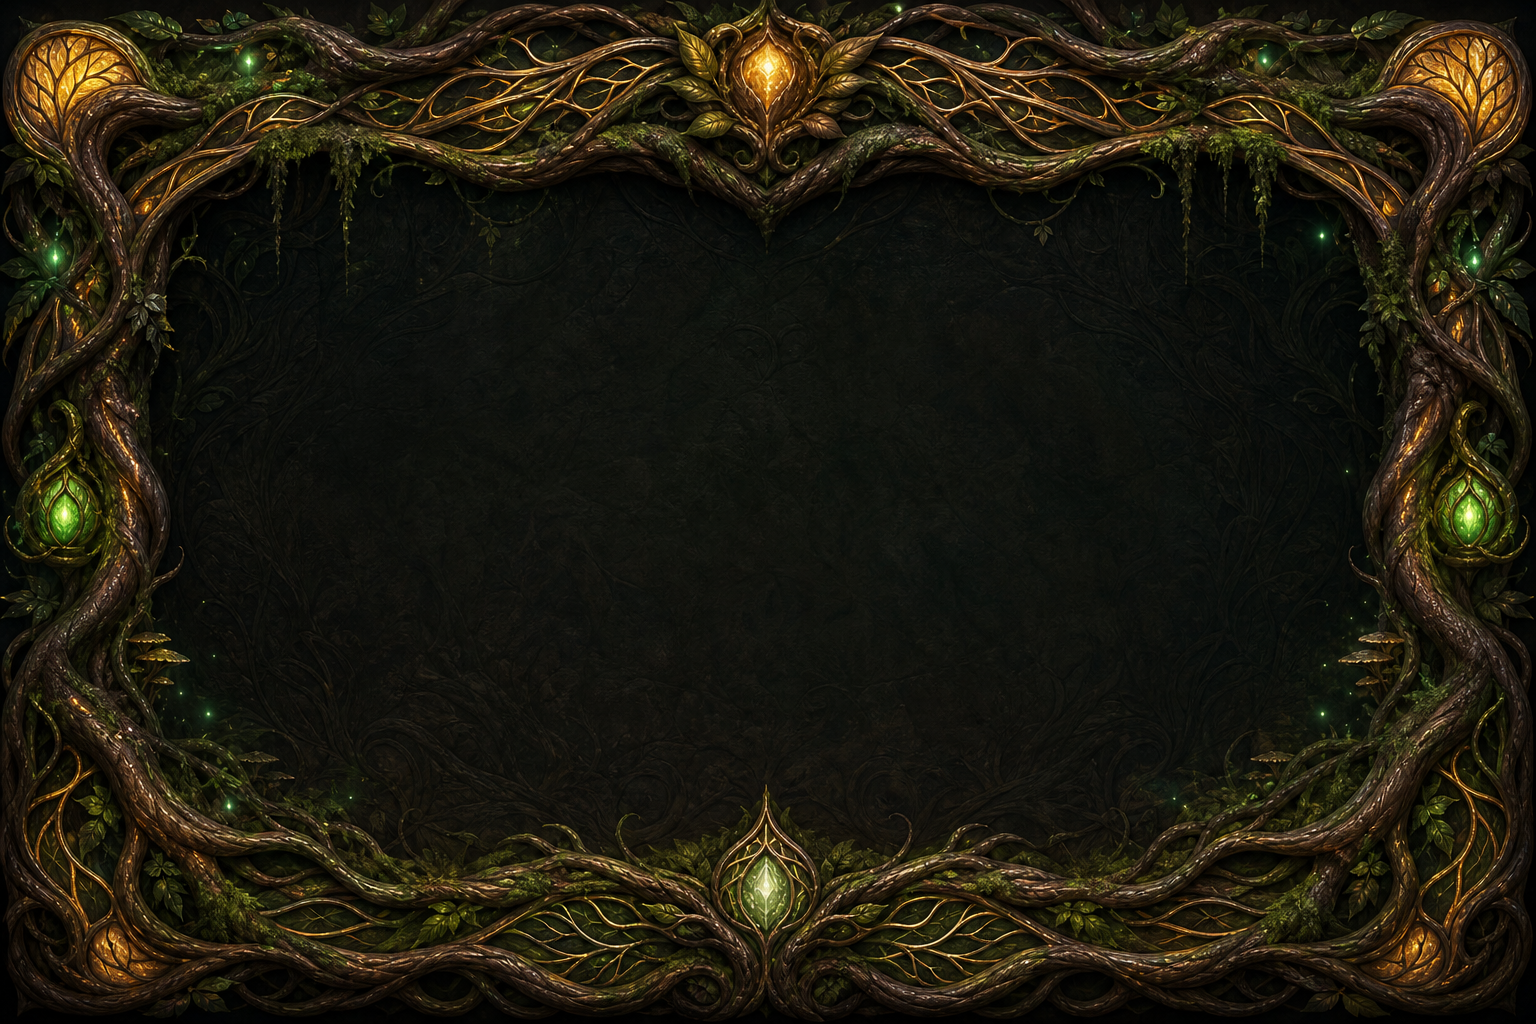
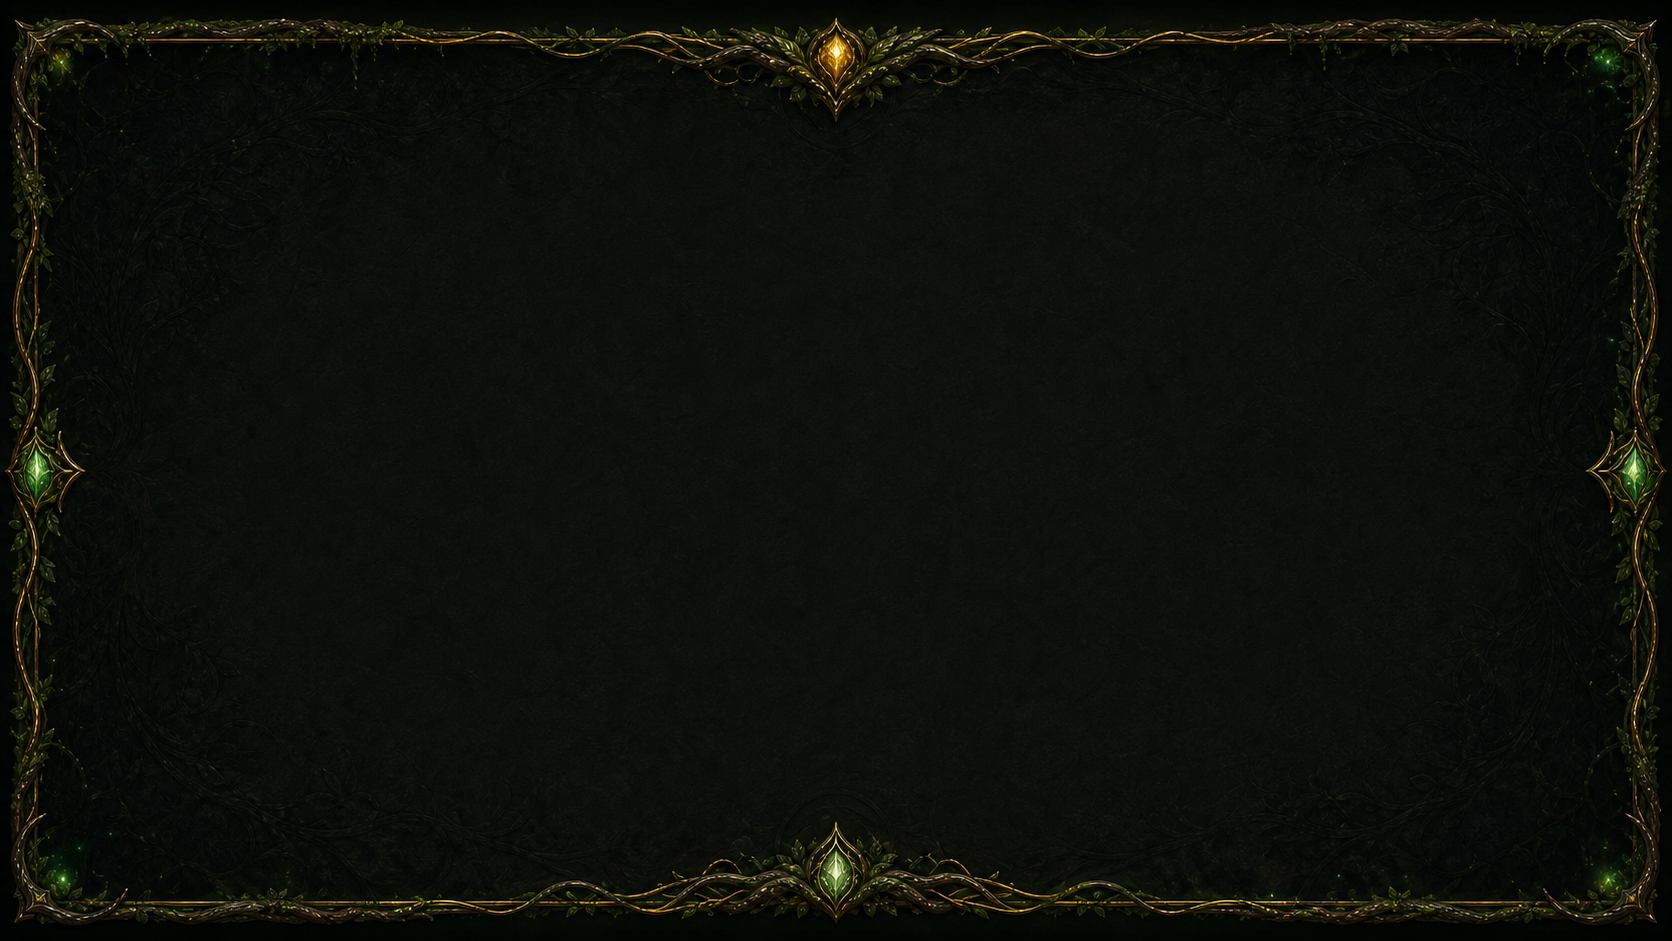
Regenerate full-screen shop frame

Changed region(s): [[0.0, 0.0, 1.0, 0.9862], [0.6562, 0.2157, 0.6875, 0.2465]]

diff --git a/src/style.css b/src/style.css
@@ -3278,10 +3278,10 @@ canvas {
   z-index: 38;
   display: grid;
   place-items: center;
-  padding: 28px;
+  padding: clamp(10px, 1.5vw, 20px);
   background:
-    radial-gradient(circle at 50% 42%, rgba(189, 151, 54, 0.2), transparent 22%),
-    radial-gradient(circle at 50% 50%, rgba(36, 72, 36, 0.46), rgba(4, 8, 7, 0.88) 64%),
+    radial-gradient(circle at 50% 42%, rgba(189, 151, 54, 0.12), transparent 22%),
+    radial-gradient(circle at 50% 50%, rgba(36, 72, 36, 0.26), rgba(4, 8, 7, 0.9) 64%),
     linear-gradient(180deg, rgba(3, 9, 7, 0.86), rgba(2, 4, 4, 0.96));
   backdrop-filter: blur(3px);
   pointer-events: auto;
@@ -3290,10 +3290,10 @@ canvas {
 .shop-frame {
   position: relative;
   z-index: 1;
-  width: min(1080px, calc(100vw - 36px));
-  max-height: min(840px, calc(100vh - 44px));
+  width: min(1600px, calc(100vw - 20px));
+  height: min(900px, calc(100vh - 20px));
   overflow: auto;
-  padding: clamp(54px, 7vw, 108px) clamp(34px, 5vw, 72px) clamp(42px, 5vw, 72px);
+  padding: clamp(50px, 6vh, 78px) clamp(54px, 6vw, 96px) clamp(42px, 5vh, 68px);
   color: #f7e8bd;
   background:
     var(--shop-panel-art) center / 100% 100% no-repeat,
@@ -3511,13 +3511,14 @@ canvas {
 
 @media (max-width: 760px) {
   .shop-menu {
-    padding: 12px;
+    padding: 6px;
   }
 
   .shop-frame {
-    width: calc(100vw - 18px);
-    max-height: calc(100vh - 18px);
-    padding: 48px 20px 28px;
+    width: calc(100vw - 12px);
+    height: calc(100vh - 12px);
+    max-height: none;
+    padding: 42px 20px 28px;
     background:
       var(--shop-panel-art) center / cover no-repeat,
       linear-gradient(180deg, #07120d, #020706);
